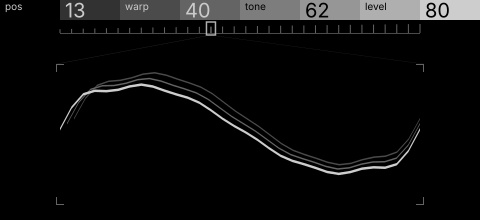
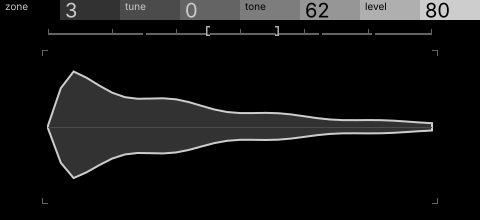
training: P16 Context strip, revision 4 (multisample mock, static locator)
Claude-Session: https://claude.ai/code/session_01982uVjBmGdMbKRuTtEGgyu

diff --git a/training/proposals/2026-11-04-context-strip/mock_strip.py b/training/proposals/2026-11-04-context-strip/mock_strip.py
@@ -1,105 +1,87 @@
-"""Mock rest frame for P16 Context strip: a wavetable engine (illustration only, not a machine).
+"""Mock rest frame for P16 Context strip: a multisample synth (illustration only, not a machine).
 
-The drawing is the selected wavetable frame, large, with its two neighbours behind it in depth. Above it, a locator
-of all 32 frames in the same drawing language (each frame a small tick sized by its brightness), an outlined bracket
-on the selected frame, and two hairline callout leaders down to the close-up, the way a technical drawing marks a
-detail. Usage: python3 mock_strip.py OUT.svg
+The drawing is a close-up of the sample the selected zone plays: its envelope as a silhouette inside corner marks.
+Above it, the map: the keyboard the engine covers, split into its zones, with a tick per C, and an open bracket
+(two corner pieces, the same marks that frame the close-up) around the zone the controls select.
+
+Usage: python3 mock_strip.py OUT.svg
 """
 import math
 import sys
 
-FRAMES, SEL = 32, 13
-X0, X1 = 60.0, 420.0            # the drawing's width; the locator follows it, not the full screen
-STRIP_TOP, STRIP_BASE = 23.0, 33.0
-SUBJ_Y, SUBJ_AMP = 128.0, 54.0
+X0, X1 = 48, 432                  # the drawing's frame; the map lines up with it, not the header's columns
+OCTAVES = 6                        # the engine maps C1..C7
+KEY = (X1 - X0) / (12 * OCTAVES)   # 384 / 72 = 5.33 px a key here (width / keys, not 480 / 128)
+GAP, TOP, BASE = 6, 26, 33         # 6 px under the stock header (y 20); the map is y 26-36
+ZONES = [0, 18, 30, 43, 51, 61, 72]   # zone splits, in keys from C1
+SEL = 2                            # the zone the controls select: keys 30..43 (F#3..G4)
+FRAME_TOP, FRAME_BOT = 50, 204
 f = lambda v: f"{v:.2f}".rstrip("0").rstrip(".")
 
 
-def wave(t: float, m: float) -> float:
-    """A frame of the table: sine morphing toward a band-limited saw as m goes 0 → 1."""
-    saw = sum(math.sin(2 * math.pi * k * t) / k for k in range(1, 7)) * 0.62
-    return (1 - m) * math.sin(2 * math.pi * t) + m * saw
-
-
-def brightness(m: float) -> float:
-    return 0.25 + 0.75 * m ** 0.8
-
-
-def ribbon(points, width):
-    """A thin closed ribbon along a polyline: one edge out, the other back `width` px below. ≤ 64 points."""
-    top = [(x, y) for x, y in points]
-    back = [(x, y + width) for x, y in reversed(points)]
-    pts = top + back
-    assert len(pts) <= 64
-    # start mid-way along the long top edge, so the closing edge isn't a short end
-    k = len(top) // 2
-    pts = pts[k:] + pts[:k]
-    return "M " + " L ".join(f"{f(x)} {f(y)}" for x, y in pts) + " Z"
+def path(points):
+    return "M " + " L ".join(f"{f(x)} {f(y)}" for x, y in points) + " Z"
 
 
 def rect(x, y, w, h):
-    return f"M {f(x)} {f(y)} L {f(x + w)} {f(y)} L {f(x + w)} {f(y + h)} L {f(x)} {f(y + h)} Z"
+    return path([(x, y), (x + w, y), (x + w, y + h), (x, y + h)])
 
 
-def quad(a, b, c, d):
-    return "M " + " L ".join(f"{f(x)} {f(y)}" for x, y in (a, b, c, d)) + " Z"
-
-
-def frame_points(m, dx=0.0, dy=0.0, n=31):
-    return [(X0 + dx + (X1 - X0 - dx) * i / (n - 1), SUBJ_Y + dy - SUBJ_AMP * wave(i / (n - 1), m)) for i in range(n)]
+def kx(key):
+    return round(X0 + key * KEY)
 
 
 out = []
 add = out.append
 add('<svg xmlns="http://www.w3.org/2000/svg" width="480" height="220" viewBox="0 0 480 220">')
-add("  <!-- P16 Context strip, mock rest frame (illustration only): a wavetable engine. -->")
+add("  <!-- P16 Context strip, mock rest frame (illustration only): a multisample synth. -->")
 add('  <g id="preview_canvas"><rect x="0" y="0" width="480" height="220" fill="#000000" stroke="none"/></g>')
 add('  <g id="preview_header">')
 for i, g in enumerate(["#000000", "#323232", "#4B4B4B", "#646464", "#7D7D7D", "#969696", "#AFAFAF", "#CDCDCD"]):
     add(f'    <rect x="{60 * i}" y="0" width="60" height="20" fill="{g}" stroke="none"/>')
-for i, (t, v) in enumerate([("pos", "13"), ("warp", "40"), ("tone", "62"), ("level", "80")]):
+for i, (t, v) in enumerate([("zone", "3"), ("tune", "0"), ("tone", "62"), ("level", "80")]):
     c = "#CBCBCB" if i < 2 else "#000000"
     add(f'    <text transform="matrix(1 0 0 1 {5 + 120 * i} 10)" fill="{c}" stroke="none" font-family="UniversNextPro-Light" font-size="10px">{t}</text>')
     add(f'    <text transform="matrix(1 0 0 1 {65 + 120 * i} 17.44)" fill="{c}" stroke="none" font-family="UniversNextPro-Light" font-size="20px">{v}</text>')
 add("  </g>")
 
-# locator: a hairline baseline, then one tick per frame, sized by that frame's brightness
-step = (X1 - X0) / (FRAMES - 1)
-add(f'  <path d="{rect(X0, STRIP_BASE, X1 - X0, 1)}" fill="#4B4B4B" stroke="none" stroke-width="0"/>')
-for i in range(FRAMES):
-    m = i / (FRAMES - 1)
-    h = 2 + 7 * brightness(m)
-    x = X0 + i * step - 0.5
-    shade = "#969696" if i == SEL else "#646464"
-    add(f'  <path d="{rect(x, STRIP_BASE - h, 1, h)}" fill="{shade}" stroke="none" stroke-width="0"/>')
+# the map: zones as 2 px segments of the baseline, split by 3 px gaps (position, not shade, tells them apart)
+for a, b in zip(ZONES, ZONES[1:]):
+    xa, xb = kx(a) + (2 if a else 0), kx(b) - (1 if b < ZONES[-1] else 0)
+    add(f'  <path d="{rect(xa, BASE, xb - xa, 2)}" fill="#646464" stroke="none" stroke-width="0"/>')
+# a tick per C, uniform, on whole pixels: a guide, so hairline
+for o in range(OCTAVES + 1):
+    x = min(kx(12 * o), X1 - 1)
+    add(f'  <path d="{rect(x, BASE - 4, 1, 4)}" fill="#646464" stroke="none" stroke-width="0"/>')
 
-# bracket: an outlined window on the selected frame (not a filled bar)
-bx = X0 + SEL * step
-add(f'  <path d="{rect(bx - 4.5, STRIP_TOP - 1, 9, STRIP_BASE - STRIP_TOP + 3)}" fill="none" stroke="#AFAFAF" stroke-width="1.5"/>')
+# the bracket: two open corner pieces around the selected zone (two nodes on the device; static here)
+xa, xb, arm, w = kx(ZONES[SEL]) - 2, kx(ZONES[SEL + 1]) + 2, 4, 1.5
+for x, s in ((xa, 1), (xb, -1)):
+    stem_x = x if s > 0 else x - w
+    add(f'  <path d="{path([(stem_x, TOP), (stem_x + w, TOP), (stem_x + w, TOP + 10), (stem_x, TOP + 10)])}" fill="#AFAFAF" stroke="none" stroke-width="0"/>')
+    for y in (TOP, TOP + 10 - w):
+        x0 = x if s > 0 else x - arm
+        add(f'  <path d="{rect(x0, y, arm, w)}" fill="#AFAFAF" stroke="none" stroke-width="0"/>')
 
-# the close-up's frame: corner marks, as a technical drawing marks a detail
-CROP_TOP, CROP_BOT, ARM = SUBJ_Y - SUBJ_AMP - 10, SUBJ_Y + SUBJ_AMP + 22, 8
-for xe, sgn in ((X0 - 4, 1), (X1 + 4, -1)):
-    xa = xe if sgn > 0 else xe - 1
-    add(f'  <path d="{rect(xa, CROP_TOP, 1, ARM)}" fill="#646464" stroke="none" stroke-width="0"/>')
-    add(f'  <path d="{rect(min(xe, xe + sgn * ARM), CROP_TOP, ARM, 1)}" fill="#646464" stroke="none" stroke-width="0"/>')
+# the close-up's frame: corner marks in the same language as the bracket, quieter
+for (x, sx) in ((X0 - 6, 1), (X1 + 6, -1)):
+    for (y, sy) in ((FRAME_TOP, 1), (FRAME_BOT, -1)):
+        xs = x if sx > 0 else x - 1
+        ys = y if sy > 0 else y - 6
+        add(f'  <path d="{rect(xs, ys, 1, 6)}" fill="#646464" stroke="none" stroke-width="0"/>')
+        add(f'  <path d="{rect(x if sx > 0 else x - 6, y if sy > 0 else y - 1, 6, 1)}" fill="#646464" stroke="none" stroke-width="0"/>')
 
-# callout leaders: from the bracket's foot to those corners, hairline, decoration grey
-foot = STRIP_BASE + 2.75
-for xe in (X0 - 4, X1 + 4):
-    sgn = -1 if xe < bx else 1
-    a, b = (bx + sgn * 4.5, foot), (xe, CROP_TOP)
-    add(f'  <path d="{quad(a, (a[0] - sgn * 1, a[1]), (b[0] - sgn * 1, b[1]), b)}" fill="#4B4B4B" stroke="none" stroke-width="0"/>')
-
-# the drawing: neighbours behind in depth, the selected frame in front and brightest
-for k, (dx, dy, g) in enumerate([(14, -10, "#4B4B4B"), (7, -5, "#646464")]):
-    m = (SEL - 2 + k) / (FRAMES - 1)
-    add(f'  <path d="{ribbon(frame_points(m, dx, dy), 1.5)}" fill="{g}" stroke="none" stroke-width="0"/>')
-add(f'  <path d="{ribbon(frame_points(SEL / (FRAMES - 1), n=32), 2.5)}" fill="#CDCDCD" stroke="none" stroke-width="0"/>')
-# bottom corner marks close the detail frame
-for xe, sgn in ((X0 - 4, 1), (X1 + 4, -1)):
-    xa = xe if sgn > 0 else xe - 1
-    add(f'  <path d="{rect(xa, CROP_BOT - ARM + 1, 1, ARM)}" fill="#646464" stroke="none" stroke-width="0"/>')
-    add(f'  <path d="{rect(min(xe, xe + sgn * ARM), CROP_BOT, ARM, 1)}" fill="#646464" stroke="none" stroke-width="0"/>')
+# the drawing: the selected zone's sample as an envelope silhouette, bright edge, dark body
+N, MID = 31, (FRAME_TOP + FRAME_BOT) / 2
+def amp(t):
+    attack = min(1.0, t / 0.05)
+    return max(1.5, 66 * attack * math.exp(-2.6 * t) * (0.88 + 0.12 * math.sin(t * 23)))
+top = [(X0 + (X1 - X0) * i / (N - 1), MID - amp(i / (N - 1))) for i in range(N)]
+bot = [(x, MID + (MID - y) * 0.92) for x, y in reversed(top)]
+pts = top + bot
+pts = pts[N // 2:] + pts[:N // 2]           # start mid-way along a long edge
+add(f'  <path d="{path(pts)}" fill="#323232" stroke="#CDCDCD" stroke-width="2"/>')
+# the centre line, hairline guide
+add(f'  <path d="{rect(X0, round(MID), X1 - X0, 1)}" fill="#4B4B4B" stroke="none" stroke-width="0"/>')
 add("</svg>")
 open(sys.argv[1], "w").write("\n".join(out) + "\n")
